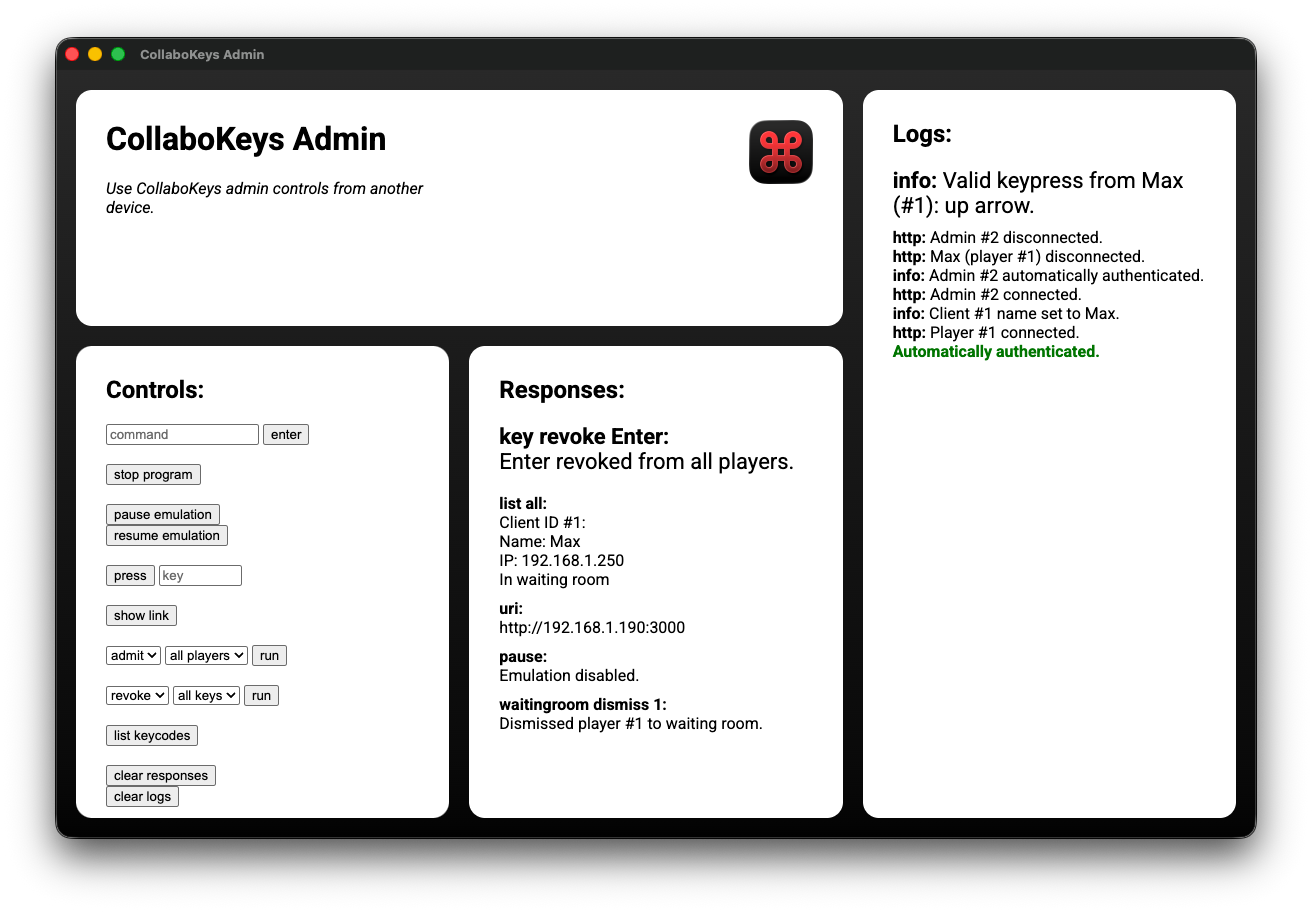
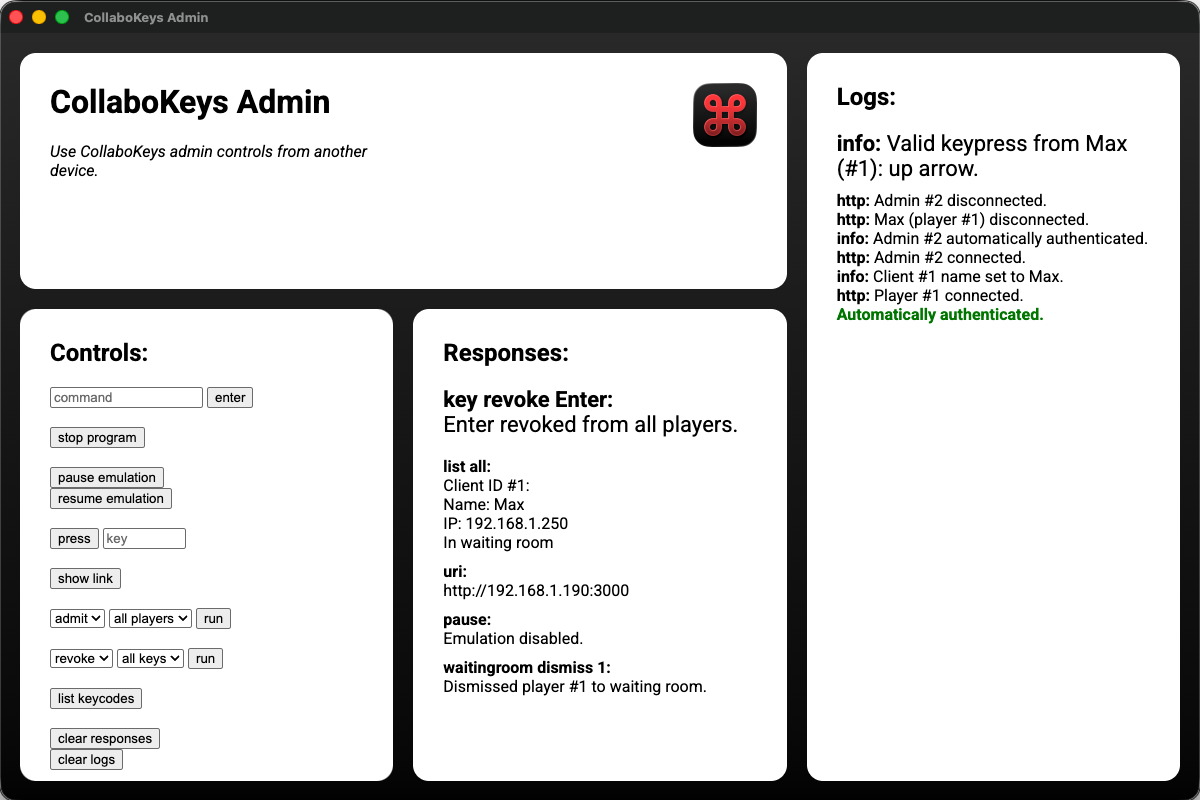
test

diff --git a/src/public/demo/styles.css b/src/public/demo/styles.css
@@ -1,0 +1,146 @@
+html, body {
+    font-family: "Roboto", sans-serif;
+
+    height: 100%;
+    margin: 0;
+    padding: 0;
+
+    background-image: linear-gradient(to bottom, rgb(46, 46, 46), rgb(0, 0, 0));
+    background-color: black;
+    background-repeat: no-repeat;
+    background-attachment: fixed;
+
+    overflow: hidden;
+    overscroll-behavior: none;
+
+    overflow-wrap: break-word;
+}
+
+.container {
+    display: grid;
+
+    grid-template-columns: 1fr 1fr 1fr; /* horizontal ratios */
+    grid-template-rows: 1fr 2fr; /* vertical ratios */
+
+    grid-template-areas:
+        "header header logs" /* header merged */
+        "controls responses logs";
+
+    height: 100vh;
+    gap: 20px;
+    padding: 20px;
+    box-sizing: border-box;
+}
+
+.header {
+    grid-area: header;
+    
+    display: grid;
+    grid-template-columns: 1fr 1fr;
+}
+
+.header-text {
+    grid-column: 1;
+}
+
+.header-logo {
+    grid-column: 2;
+    justify-self: end;
+}
+
+.header-logo img {
+    height: 64px;
+}
+
+.controls {
+    grid-area: controls;
+
+    overflow-y: scroll;
+    overflow-x: hidden;
+    &::-webkit-scrollbar {
+        display: none;
+    }
+    -ms-overflow-style: none; 
+    scrollbar-width: none;
+}
+
+#enter {
+    margin-bottom: 20px;
+}
+
+#logList {
+    list-style: none;
+}
+
+#logList li:first-child {
+    font-size: 22px;
+    margin-bottom: 10px;
+}
+
+.responses {
+    grid-area: responses;
+
+    overflow-y: scroll;
+    overflow-x: hidden;
+    &::-webkit-scrollbar {
+        display: none;
+    }
+    -ms-overflow-style: none; 
+    scrollbar-width: none;
+}
+
+#responsesList {
+    list-style: none;
+}
+
+#responsesList li:first-child {
+    font-size: 22px;
+    margin-bottom: 20px;
+}
+
+#responsesList li {
+    margin-bottom: 10px;
+}
+
+.logs {
+    grid-area: logs;
+
+    overflow-y: scroll;
+    overflow-x: hidden;
+    &::-webkit-scrollbar {
+        display: none;
+    }
+    -ms-overflow-style: none; 
+    scrollbar-width: none; 
+}
+
+#logList {
+    list-style: none;
+}
+
+#logList li:first-child {
+    font-size: 22px;
+    margin-bottom: 10px;
+}
+
+.contentHeaders {
+    margin-top: 0;
+}
+
+.item {
+    border-radius: 1em;
+    background-color: white;
+    padding: 30px;
+}
+
+.item *:first-child {
+    margin-top: 0;
+}
+
+.bad {
+    color: red;
+}
+
+.good {
+    color: green;
+}

diff --git a/src/public/demo/index.html b/src/public/demo/index.html
@@ -1,0 +1,90 @@
+<!DOCTYPE html>
+<html>
+<head>
+    <title>CollaboKeys Admin</title>
+    <link rel="stylesheet" href="styles.css">
+    <link rel="icon" type="image/x-icon" href="favicon.ico">
+    <link rel="preconnect" href="https://fonts.googleapis.com">
+    <link rel="preconnect" href="https://fonts.gstatic.com" crossorigin>
+    <link href="https://fonts.googleapis.com/css2?family=Roboto:ital,wght@0,100..900;1,100..900&display=swap" rel="stylesheet">
+    <meta charset="UTF-8">
+    <meta name="viewport" content="width=device-width, initial-scale=1.0">
+</head>
+<body>
+    <div class="container">
+        <div class="item header">
+            <div class="header-text">
+                <h1>CollaboKeys Admin</h1>
+                <p><i>Use CollaboKeys admin controls from another device.</i></p>
+            </div>
+            <div class="header-logo">
+                <a href="https://github.com/tinkerer9/collaborativekeys" target="_blank"><img src="logo.png" alt="CollaboKeys Logo"></a>
+            </div>
+        </div>
+
+        <div class="item controls">
+            <h2 class="contentHeaders">Controls:</h2>
+            <div>
+                <input type="text" placeholder="command">
+                <button>enter</button><br><br>
+
+                <button>stop program</button><br><br>
+                
+                <button>pause emulation</button><br>
+                <button>resume emulation</button><br><br>
+
+                <button>press</button>
+                <input type="text" placeholder="key" style="width: 75px;"><br><br>
+
+                <button>show link</button><br><br>
+
+                <select>
+                    <option>admit</option>
+                </select>
+                <select>
+                    <option>all players</option>
+                </select>
+                <button>run</button><br><br>
+
+                <select>
+                    <option>revoke</option>
+                </select>
+                <select>
+                    <option>all keys</option>
+                </select>
+                <button>run</button><br><br>
+
+                <button>list keycodes</button><br><br>
+
+                <button>clear responses</button><br>
+                <button>clear logs</button><br><br>
+            </div>
+        </div>
+
+        <div class="item responses">
+            <h2>Responses:</h2>
+            <ui id="responsesList">
+                <li><b>key revoke Enter:</b><br>Enter revoked from all players.</li>
+                <li><b>list all:</b><br>Client ID #1:<br>Name: Max<br>IP: 192.168.1.250<br>In waiting room</li>
+                <li><b>uri:</b><br>http://192.168.1.190:3000</li>
+                <li><b>pause:</b><br>Emulation disabled.</li>
+                <li><b>waitingroom dismiss 1:</b><br>Dismissed player #1 to waiting room.</li>
+            </ui>
+        </div>
+        
+        <div class="item logs">
+            <h2 class="contentHeaders">Logs:</h2>
+            <ui id="logList">
+                <li><b>info:</b> Valid keypress from Max (#1): up arrow.</li>
+                <li><b>http:</b> Admin #2 disconnected.</li>
+                <li><b>http:</b> Max (player #1) disconnected.</li>
+                <li><b>info:</b> Admin #2 automatically authenticated.</li>
+                <li><b>http:</b> Admin #2 connected.</li>
+                <li><b>info:</b> Client #1 name set to Max.</li>
+                <li><b>http:</b> Player #1 connected.</li>
+                <li class="good"><b>Automatically authenticated.</b></li>
+            </ui>
+        </div>
+    </div>
+</body>
+</html>

diff --git a/README.md b/README.md
@@ -1,17 +1,20 @@
 # CollaboKeys
 
-<!-- markdownlint-disable-next-line MD036 -->
-**Multiple players play any game by collaboratively sharing keyboard input**
+<!-- markdownlint-disable MD033 -->
+
+<div align="center">
+  <b>Multiple players play any game by collaboratively sharing keyboard input</b><br>
+  <a href="https://github.com/tinkerer9/collaborativekeys/releases/latest">
+    <img src="/images/screenshot.png" width="100%" alt="CollaboKeys Screenshot"><br>
+    Download CollaboKeys for free
+  </a>
+</div>
 
 - No account required
 - Open source
 - macOS support (host)
 - Works on any browser (player)
 - Low latency
-
-[![CollaboKeys Screenshot](/images/screenshot.png)](https://github.com/tinkerer9/collaborativekeys/releases/latest)
-
-[Download CollaboKeys for free](https://github.com/tinkerer9/collaborativekeys/releases/latest)
 
 Made by [@tinkerer9](https://github.com/tinkerer9), [@LethalShadowFlame](https://github.com/LethalShadowFlame), and [@chickenlloyd](https://github.com/chickenlloyd) for a hackathon with theme *Connection*.
 We got 2nd place out of 14 teams!